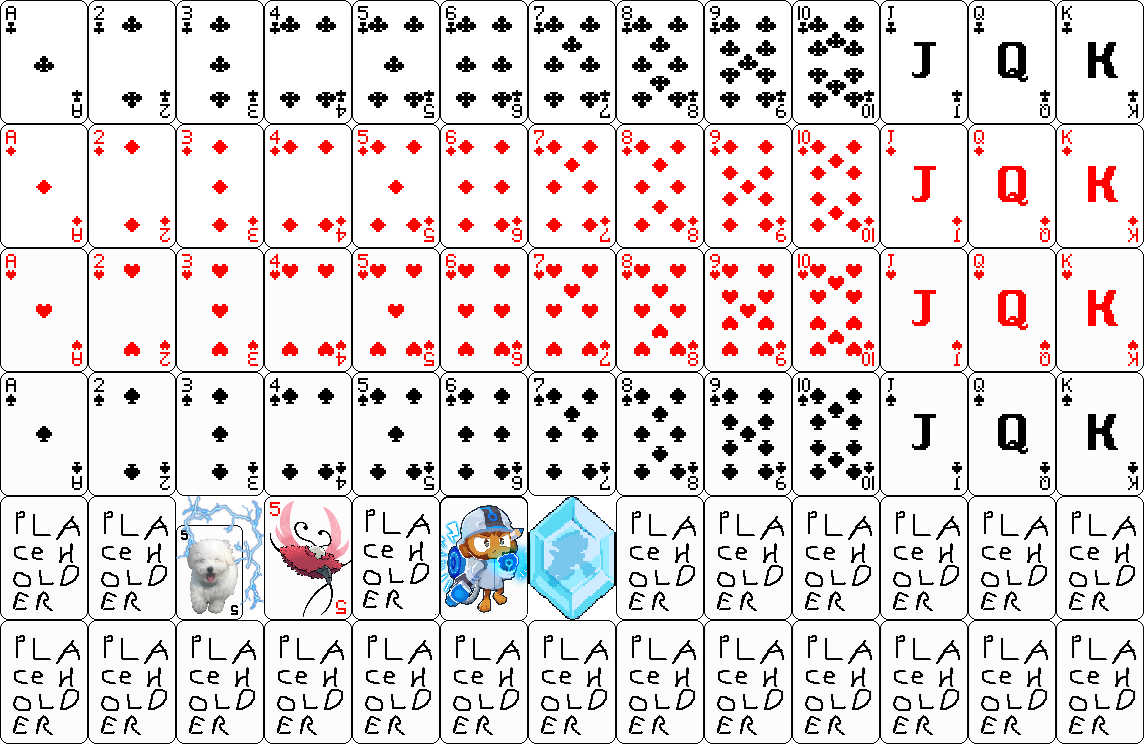
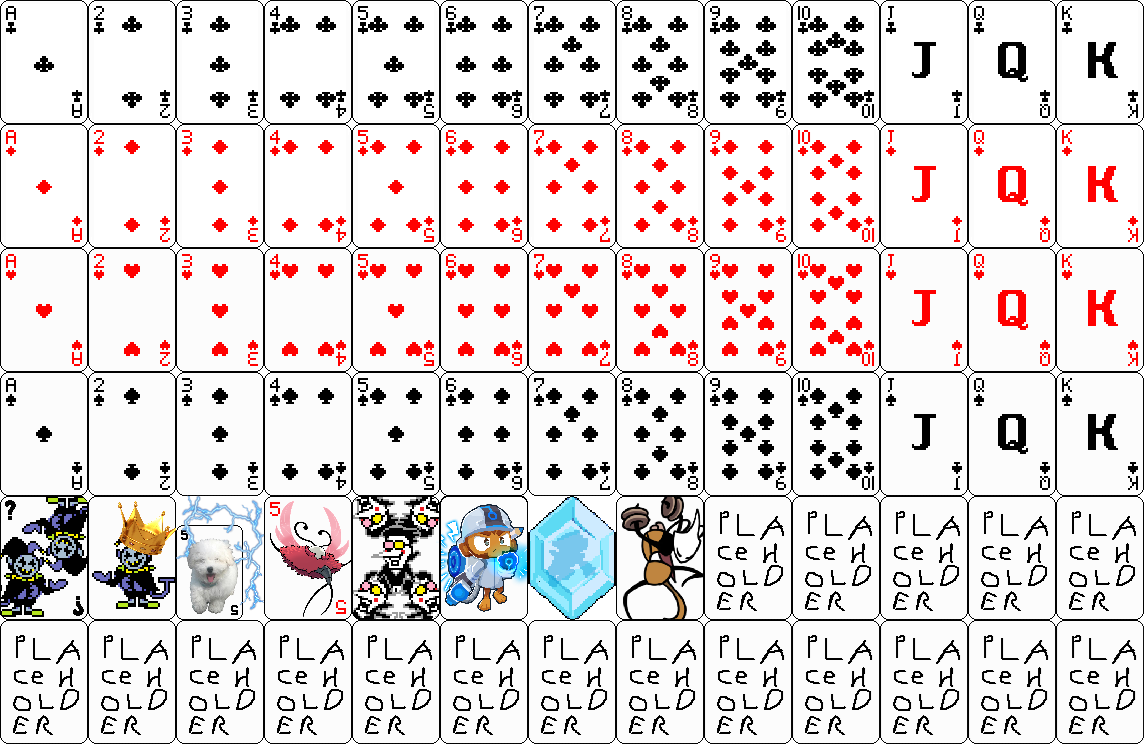
art + rename + small changes

Changed region(s): [[0.3059, 0.6492, 0.4589, 0.8347], [0.0, 0.6492, 0.153, 0.8347], [0.5201, 0.6492, 0.6119, 0.8347]]

diff --git a/js/game state/upgrades.js b/js/game state/upgrades.js
@@ -14,7 +14,7 @@ window.all_upgrades = {
     {"suit": "special_row_1", "value": "special_value:none", "hover_name": "king of the jokers", "hover_text": "'I am the king here, here and like chaos, chaos so I'll retrigger, retrigger all king cards' (ALL king cards get +1 retrigger for every use)" , "special": retrigger_all_kings, "special_location": "score", "effect": play_freedom_motif},// jevil deltarune reference
     {"suit": "special_row_1", "value": "special_value:5_1", "reusing": true, "hover_name": "shock em' and they'll stay", "hover_text": "maybe shocking this card will make it's 5 score be reusable", "special": shock_sfx, "special_location": "score"}, // hassan dog reference
     {"suit": "special_row_1", "value": "special_value:5_2", "retrigger": 1, "hover_name": "amazing performer", "hover_text": "this performance is so good that it got a 5/5 score and can be retriggered once", "special": trobbio_sfx, "special_location": "score"}, // trobbio refrence
-    {"suit": "special_row_1", "value": "special_value:2", "reusing": true, "hover_name": "scarp drone", "hover_text": "reusable card with a value of 2 but gives 1 discard when used", "special": scrap_drone_special, "special_location": "score"},
+    {"suit": "special_row_1", "value": "special_value:2", "reusing": true, "hover_name": "Spamton’s Assistant", "hover_text": "Keeps coming back for another DEAL!! reusable card with a value of 2 and gives 1 discard when used", "special": scrap_drone_special, "special_location": "score"},
     {"suit": "special_row_1", "value": "special_value:increase_max", "hover_name": "overclock monkey", "hover_text": "the monkeys designed some usefull stuff: this hand only, increase max total value by +7", "special": increase_max_total_value_7, "special_location": "total value"},
     {"suit": "special_row_1", "value": "special_value:reusable+retrigger", "hover_name": "weird route", "hover_text": "maybe things took a weird route and a random held card will retrigger and be reusable", "special": reusable_and_retrigger, "special_location": "score"}, // deltarune reference
     {"suit": "special_row_1", "value": "special_value:run_save", "reusing": true, "hover_name": "yodelling protector", "hover_text": "this one of a kind card is retriggerable and will protect you if your score is missing 25% of the needed score", "special": run_save, "special_location": "score", "effect": remove_run_save_special_card}, // shakra reference

diff --git a/js/cards/card_hover.js b/js/cards/card_hover.js
@@ -59,7 +59,7 @@ function text_color_change(text) {
     new_text = new_text.replace(/\b(?:increas(?:e|es|ing)?|max(?:imum)?)\b/gi, '<span style="background: linear-gradient(to top, LawnGreen, LightGreen);-webkit-background-clip: text;background-clip: text;color: transparent;">$&</span>');
     new_text = new_text.replace(/\b(?:decreas(?:e|es|ing)?|min(?:imum)?|but)\b/gi, '<span style="background: linear-gradient(to top, Salmon, GoldenRod);-webkit-background-clip: text;background-clip: text;color: transparent;">$&</span>');
 
-    new_text = new_text.replace(/(a random joker|\?\?\?|permanent upgrade:)/g, '<span style="background: linear-gradient(to right, red, green, blue, indigo, violet);-webkit-background-clip: text;background-clip: text;color: transparent;">$1</span>');
+    new_text = new_text.replace(/(a random joker|\?\?\?|permanent upgrade:|DEAL!!)/g, '<span style="background: linear-gradient(to right, red, green, blue, indigo, violet);-webkit-background-clip: text;background-clip: text;color: transparent;">$1</span>');
     new_text = new_text.replace(/(chaos, chaos|free, free)/g, '<span style="background: linear-gradient(to top, red, purple);-webkit-background-clip: text;background-clip: text;color: transparent;">$1</span>');
 
     return new_text;
